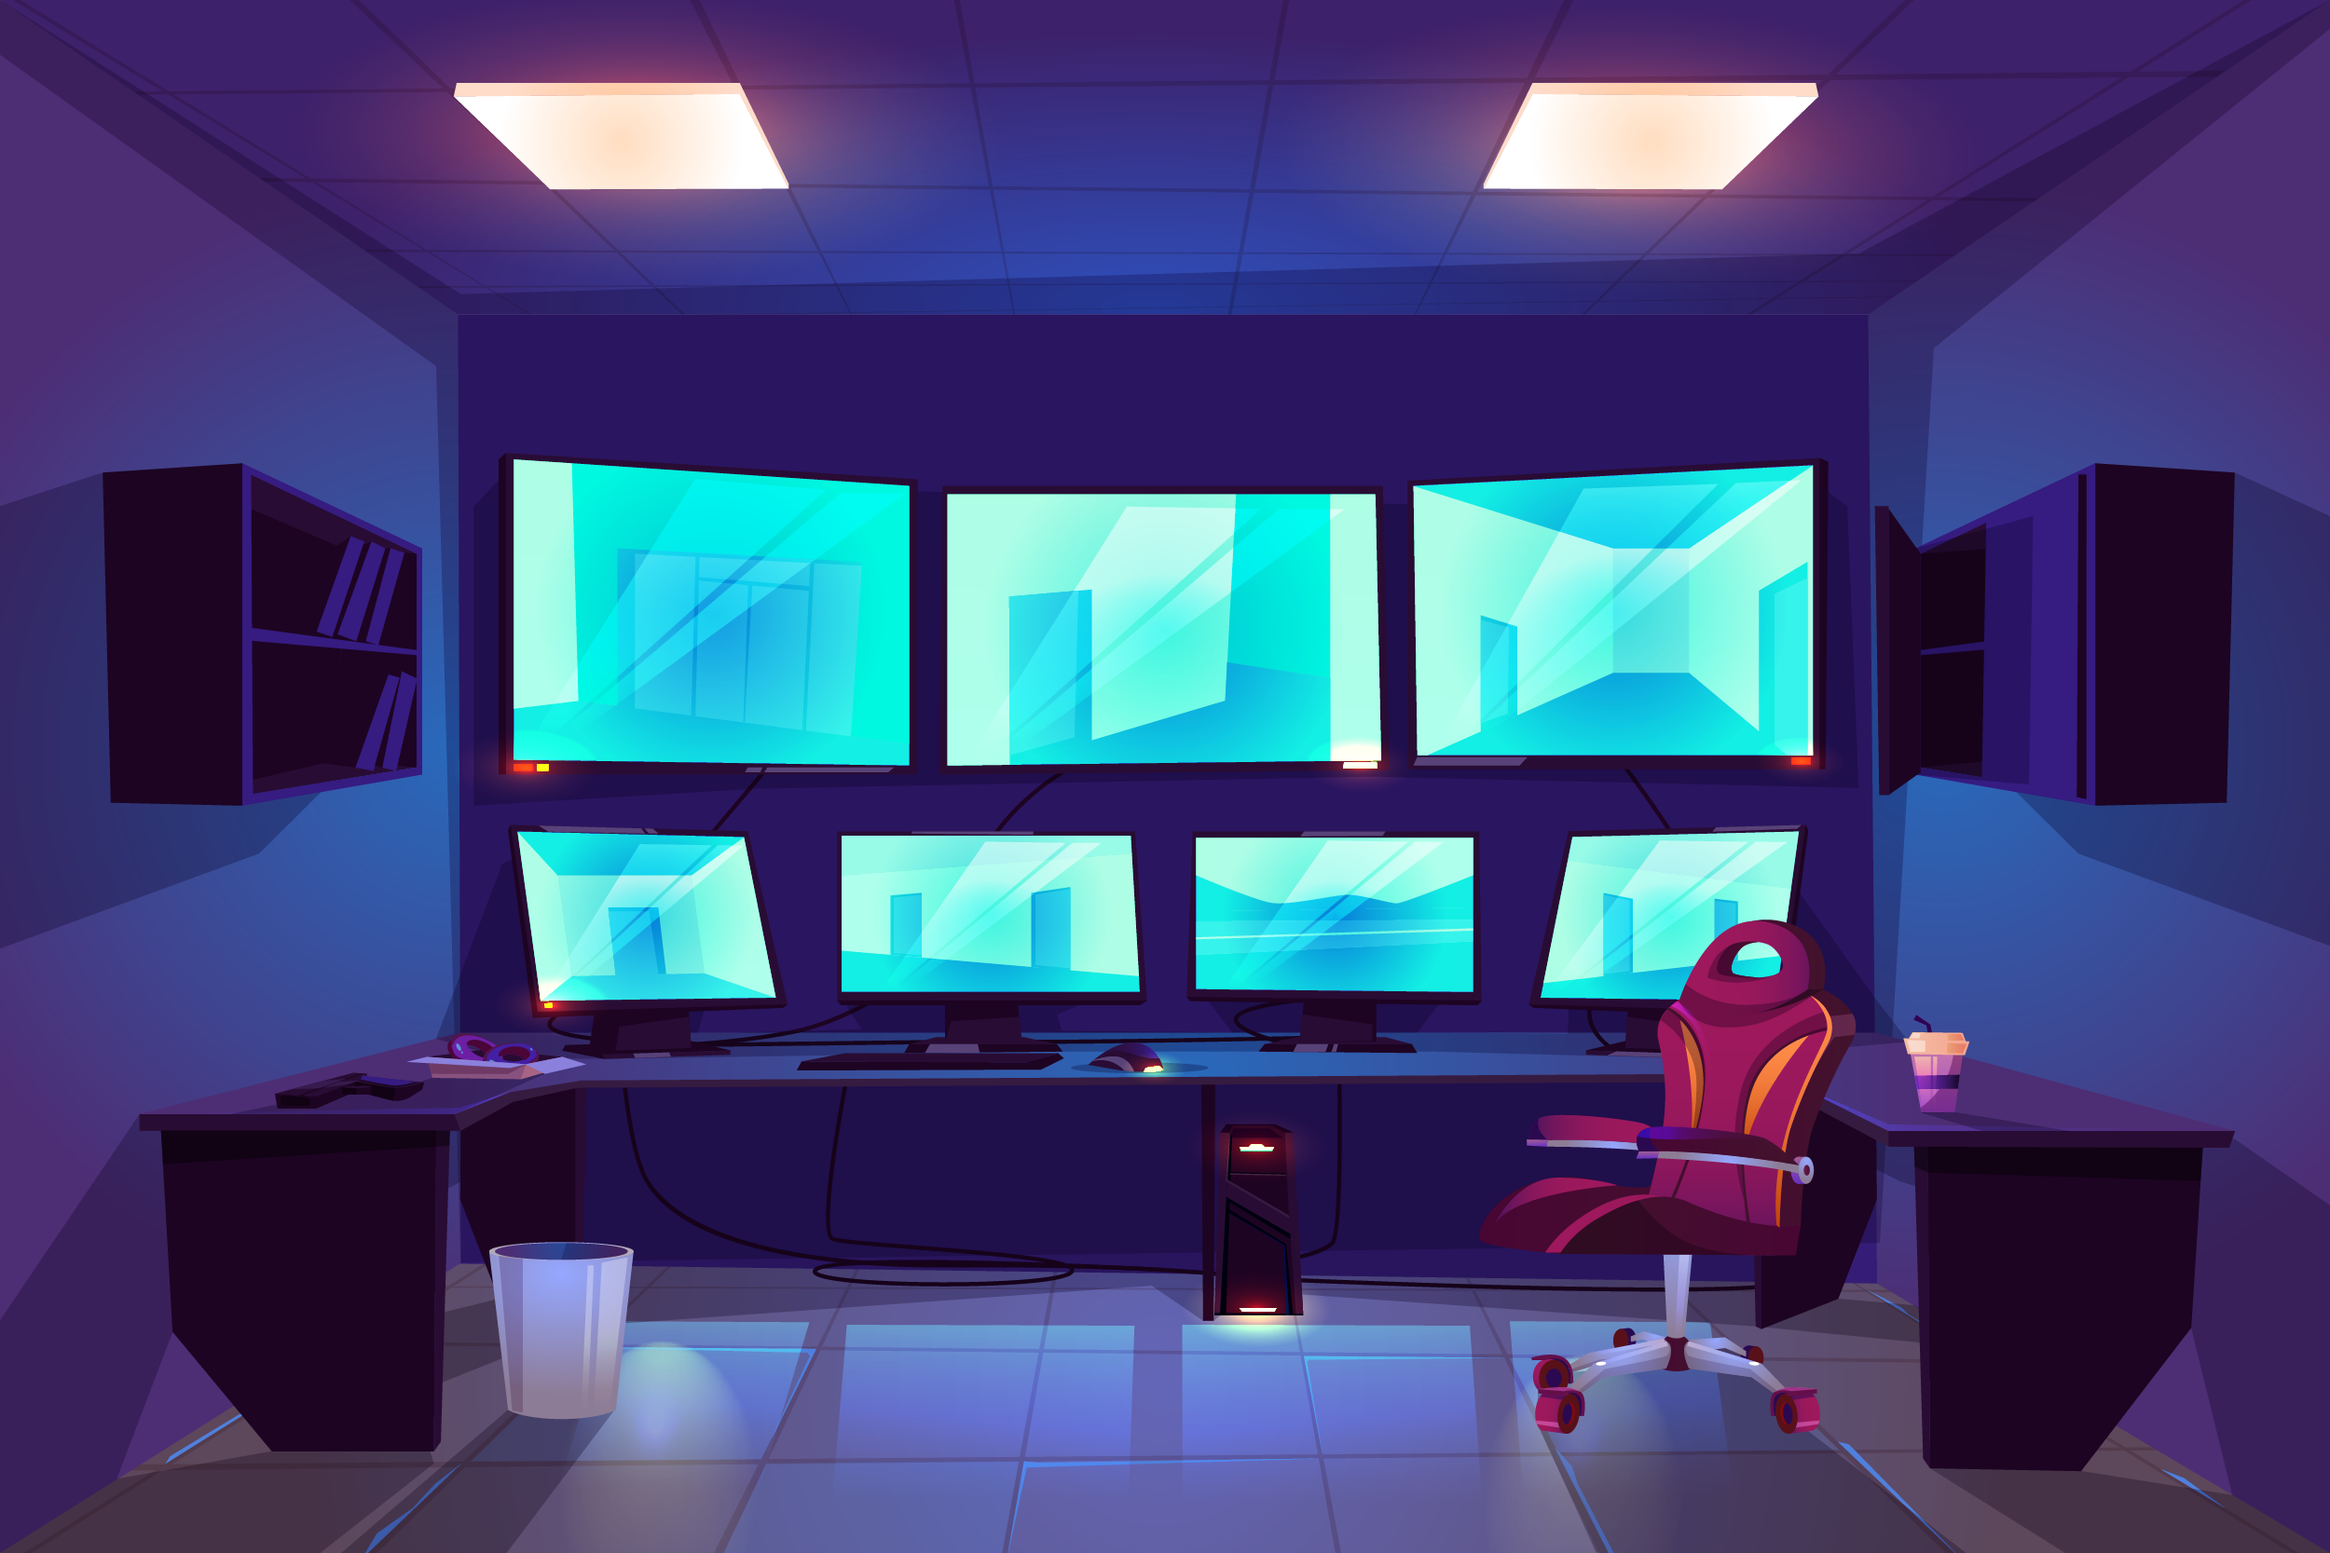
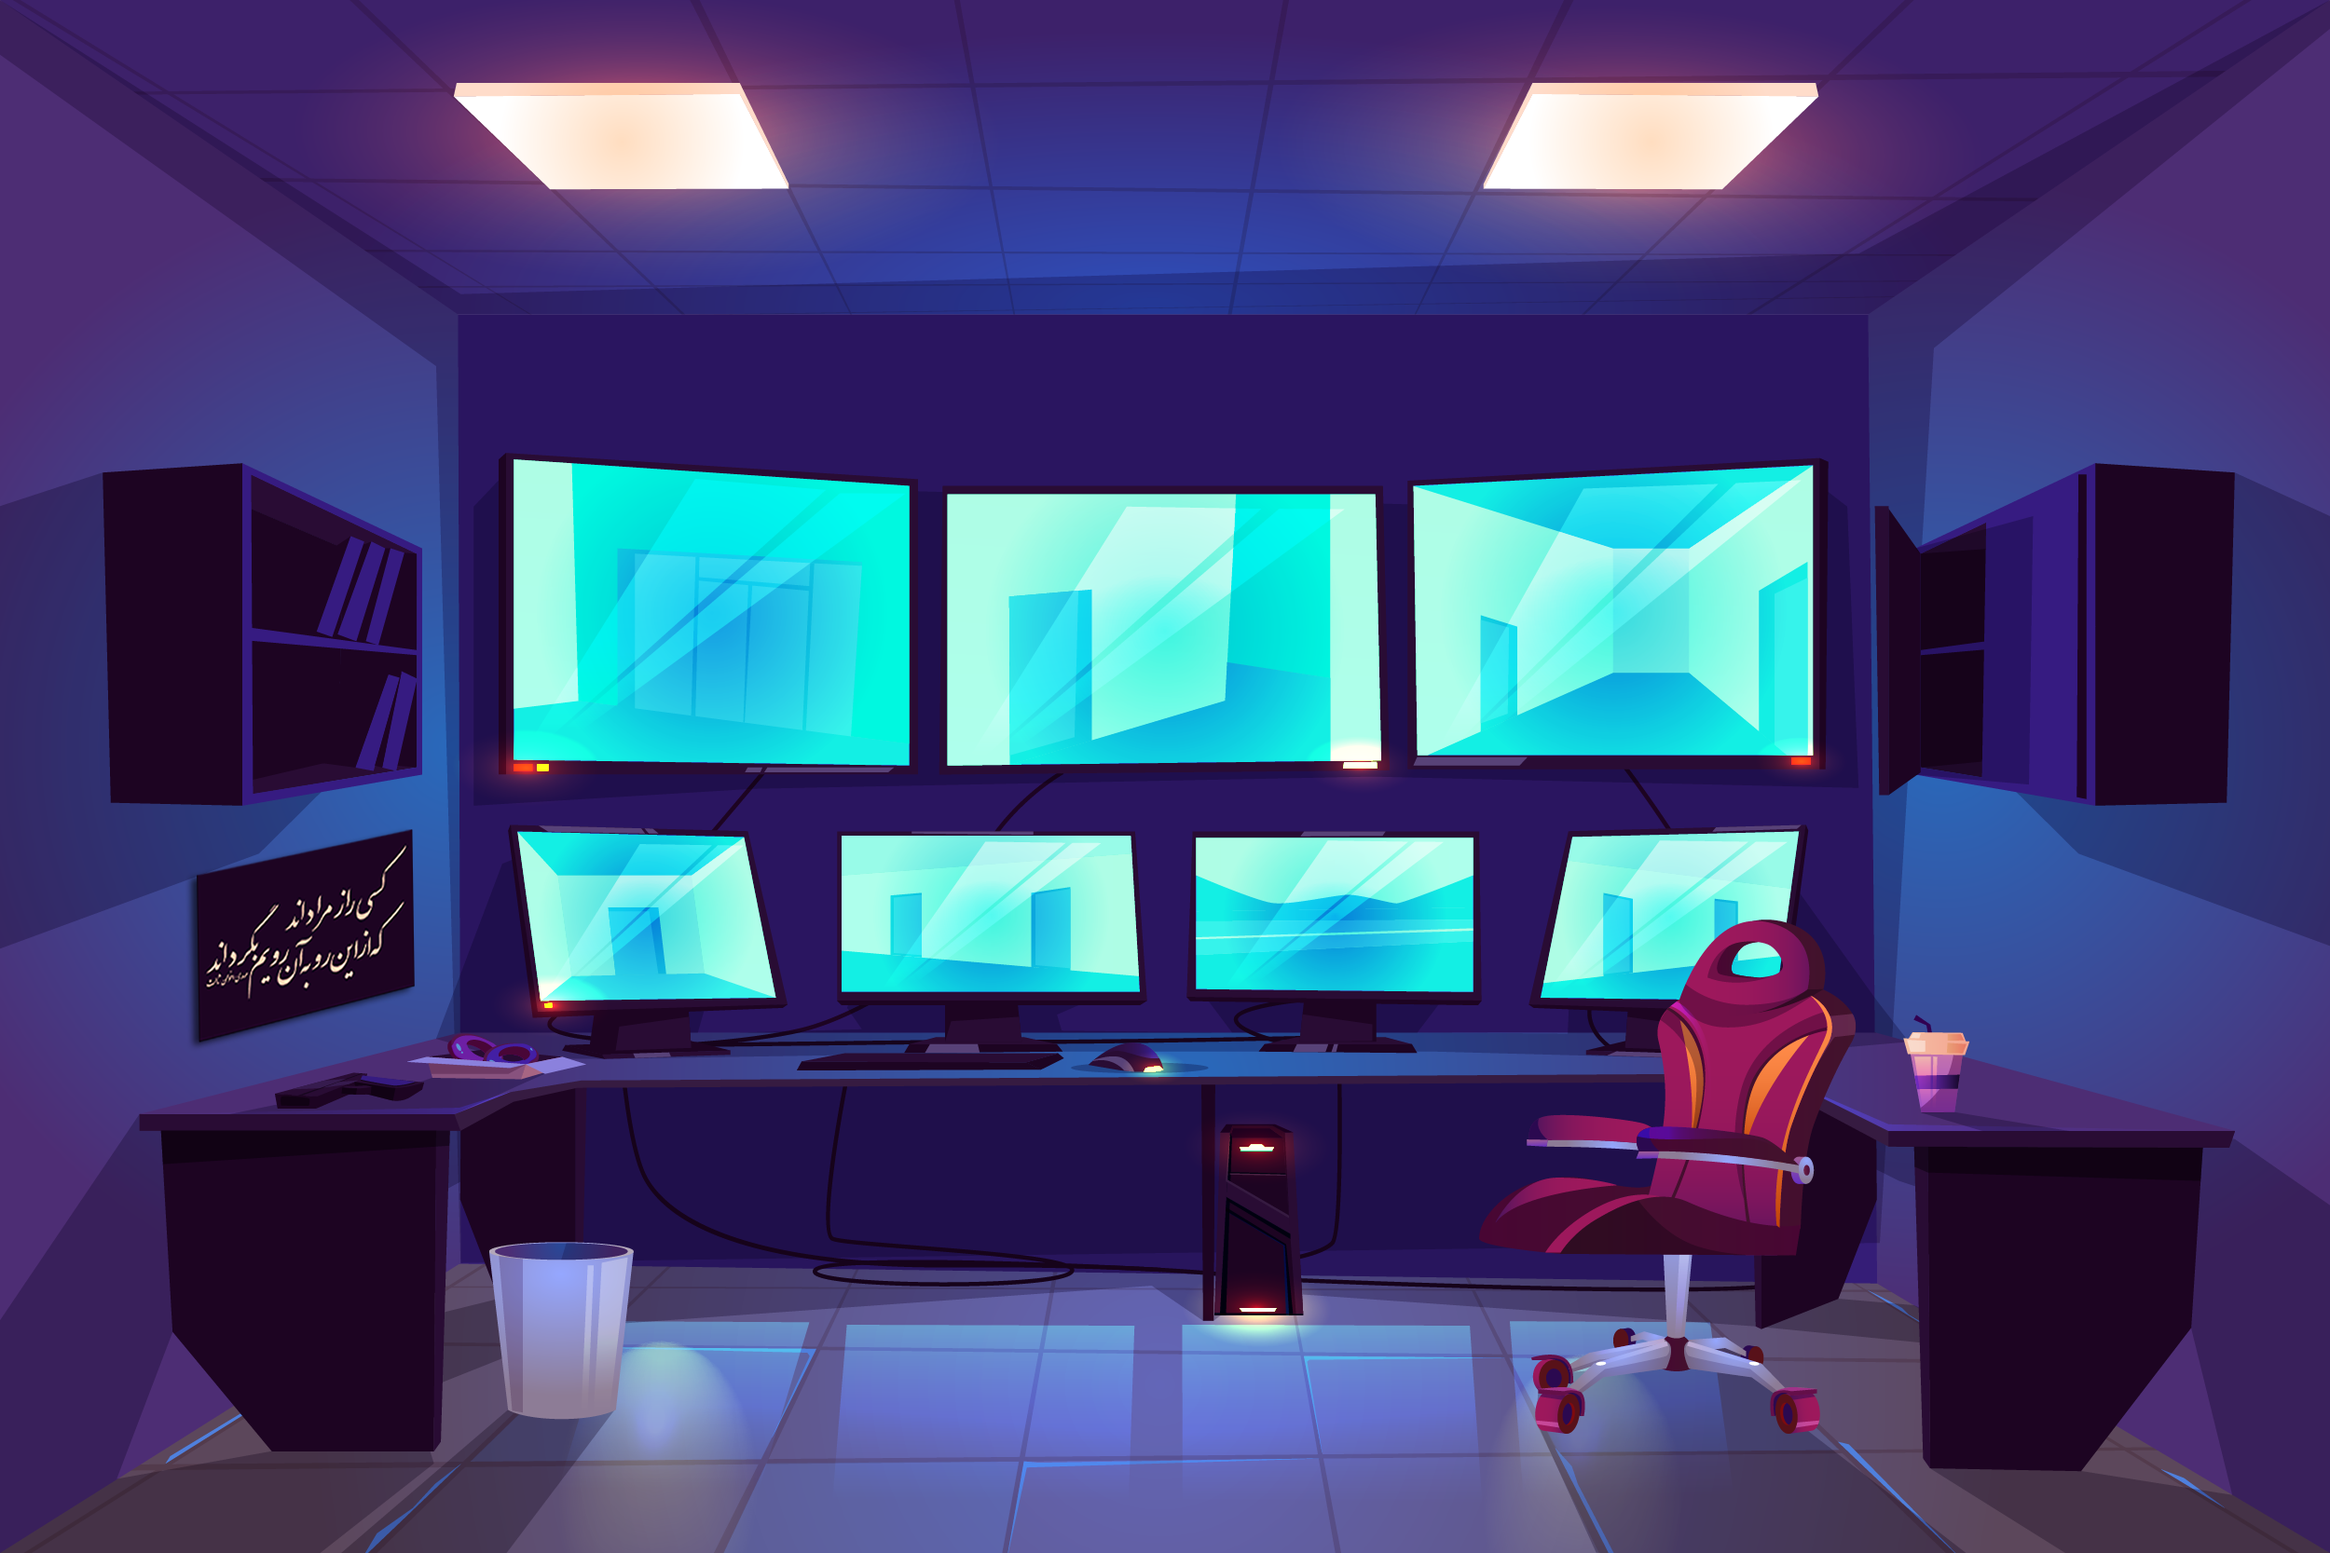
Fix Security Room

Changed region(s): [[0.0624, 0.5303, 0.1872, 0.6863]]

diff --git a/src/containers/Rooms/SecurityRoom.js b/src/containers/Rooms/SecurityRoom.js
@@ -1,10 +1,7 @@
-import {
-  Grid,
-  makeStyles,
-} from '@material-ui/core';
+import { Grid, makeStyles } from '@material-ui/core';
 import React from 'react';
 import { Image, Layer, Stage, Star, Text } from 'react-konva';
-import { useHistory } from "react-router-dom";
+import { useHistory } from 'react-router-dom';
 import useImage from 'use-image';
 
 import MessageSeries from '../../components/Dialog/MessageSeries';
@@ -18,38 +15,43 @@ const useStyles = makeStyles(() => ({
   },
 }));
 
-
 const Index = () => {
-  let history = useHistory()
+  let history = useHistory();
   const classes = useStyles();
   const [dialogOpen, setDialogOpen] = React.useState(false);
   const BACKGROUND_IMAGE = '/security_room/security-empty.png';
   const [image] = useImage(process.env.PUBLIC_URL + BACKGROUND_IMAGE);
   const scaleY = window.innerHeight / image?.height;
-  const [objects, setObjects] = React.useState(
-    [
-      {
-        urlImage: process.env.PUBLIC_URL + '/security_room/satl.png',
-        id: 0,
-        x: 535,
-        y: 1340,
-        isHover: false,
-        onClick: () => goForward('/folan1'),
-      },
-      {
-        urlImage: process.env.PUBLIC_URL + '/security_room/komod.png',
-        id: 1,
-        x: 2050,
-        y: 500,
-        isHover: false,
-        onClick: () => goForward('/folan1'),
-      }
-    ]
-  );
+  const [objects, setObjects] = React.useState([
+    {
+      urlImage: process.env.PUBLIC_URL + '/security_room/satl.png',
+      id: 0,
+      x: 605,
+      y: 1425,
+      isHover: false,
+      onClick: () => goForward('/folan1'),
+    },
+    {
+      urlImage: process.env.PUBLIC_URL + '/security_room/komod.png',
+      id: 1,
+      x: 2200,
+      y: 680,
+      isHover: false,
+      onClick: () => goForward('/folan1'),
+    },
+    {
+      urlImage: process.env.PUBLIC_URL + '/security_room/Tablo.png',
+      id: 2,
+      x: 319,
+      y: 1013,
+      isHover: false,
+      onClick: () => goForward('/folan1'),
+    },
+  ]);
 
   const goForward = (dst) => {
     history.push(dst);
-  }
+  };
 
   const handleMouseEnter = (e) => {
     const id = e.target.id();
@@ -76,7 +78,9 @@ const Index = () => {
 
   return (
     <Layout>
-      <Stage width={Math.min(image?.width * scaleY, window.innerWidth)} height={window.innerHeight}>
+      <Stage
+        width={Math.min(image?.width * scaleY, window.innerWidth)}
+        height={window.innerHeight}>
         <Layer
           draggable
           dragBoundFunc={(pos) => {
@@ -84,30 +88,32 @@ const Index = () => {
             if (window.innerWidth < image?.width * scaleY) {
               if (pos.x > 0) pos.x = 0;
               if (pos.x < window.innerWidth - image?.width * scaleY)
-                pos.x = window.innerWidth - image?.width * scaleY
+                pos.x = window.innerWidth - image?.width * scaleY;
             } else {
               pos.x = 0;
             }
             return pos;
-          }}
-        >
+          }}>
           <URLImage
             scaleX={scaleY}
             scaleY={scaleY}
-            src={process.env.PUBLIC_URL + BACKGROUND_IMAGE} />
+            src={process.env.PUBLIC_URL + BACKGROUND_IMAGE}
+          />
           {objects.map((object) => (
             <ItemImage
               key={object.id}
               object={object}
               scale={scaleY}
               handleMouseEnter={handleMouseEnter}
-              handleMouseExit={handleMouseExit} />
+              handleMouseExit={handleMouseExit}
+            />
           ))}
         </Layer>
       </Stage>
       <MessageSeries
         handleClose={() => setDialogOpen(!dialogOpen)}
-        open={dialogOpen} />
+        open={dialogOpen}
+      />
     </Layout>
   );
 };
